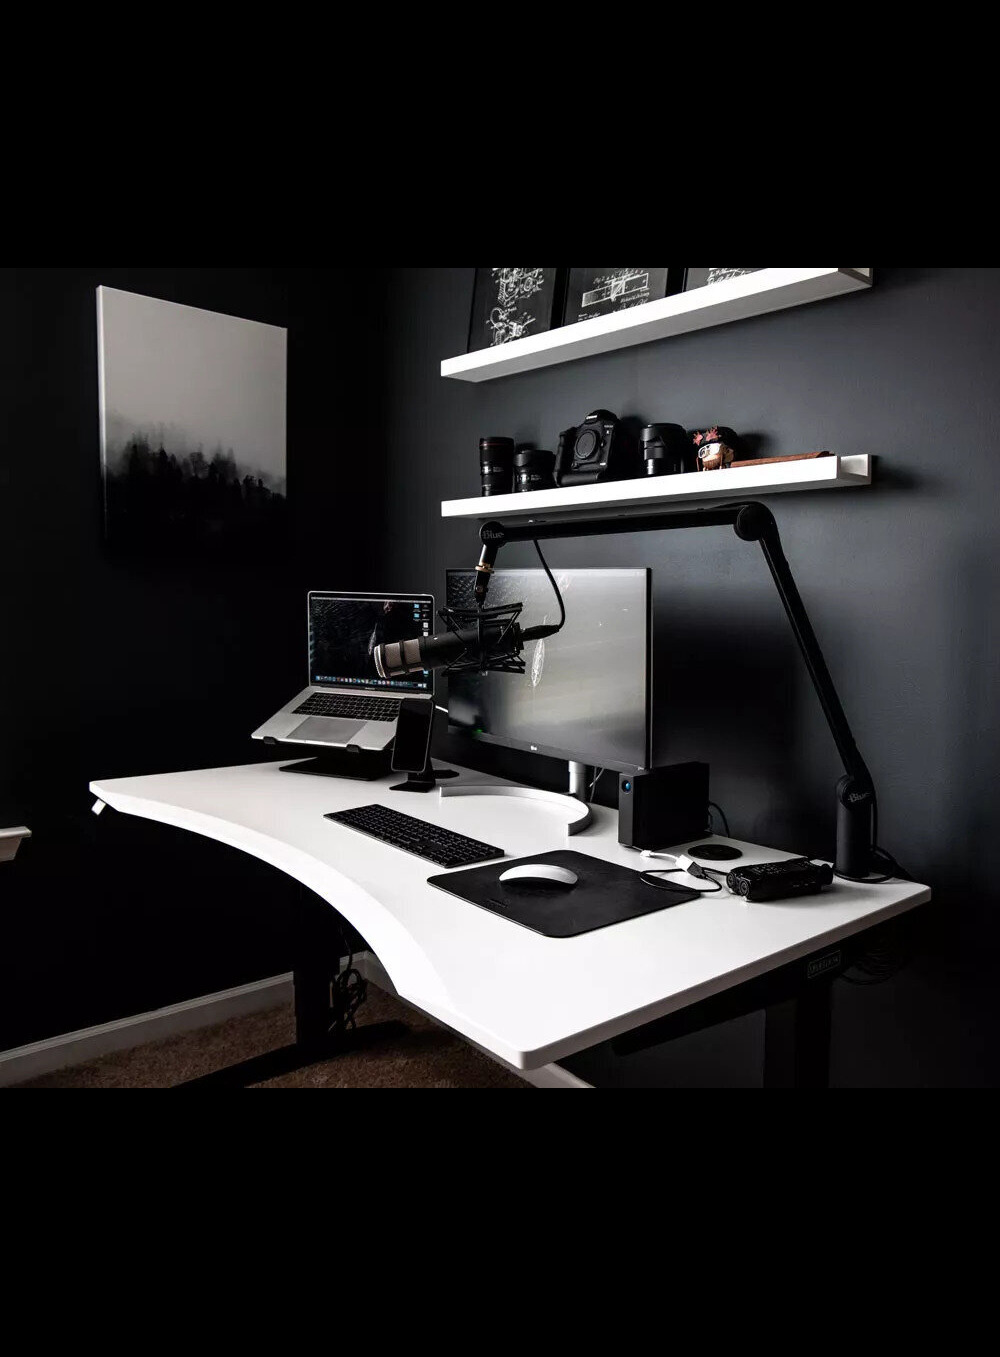
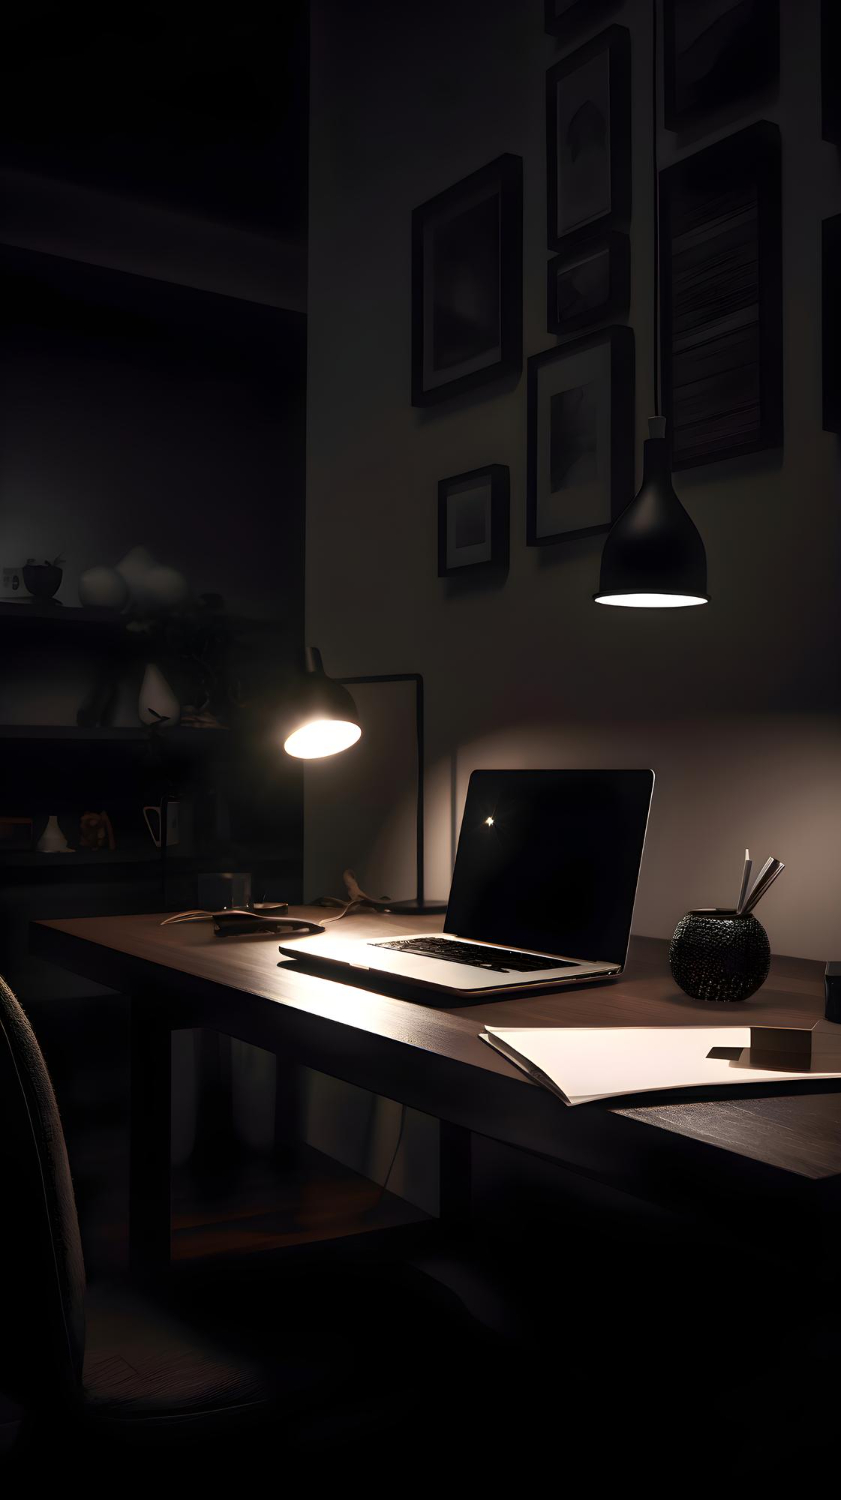
adding pic to portfolio

diff --git a/src/components/molecures/portfolio/PortfolioInfo.tsx b/src/components/molecures/portfolio/PortfolioInfo.tsx
@@ -13,8 +13,8 @@ export default function PortfolioInfo({
         src={projectImageSrc}
         className="object-cover mb-4 bg-center"
         alt={projectName}
-        width={300}
-        height={300}
+        width={270}
+        height={400}
       />
       <div className={styles.text}>
         <span>{projectType}</span>

diff --git a/src/components/organisms/portfolio.tsx b/src/components/organisms/portfolio.tsx
@@ -28,7 +28,7 @@ export default function Portfolio() {
     {
       projectType: "Web application",
       projectName: "Interior Design",
-      projectImageSrc: "/images/portfolio/work-2.jpg",
+      projectImageSrc: "/images/portfolio/work-5.jpg",
     },
     {
       projectType: "Web application",